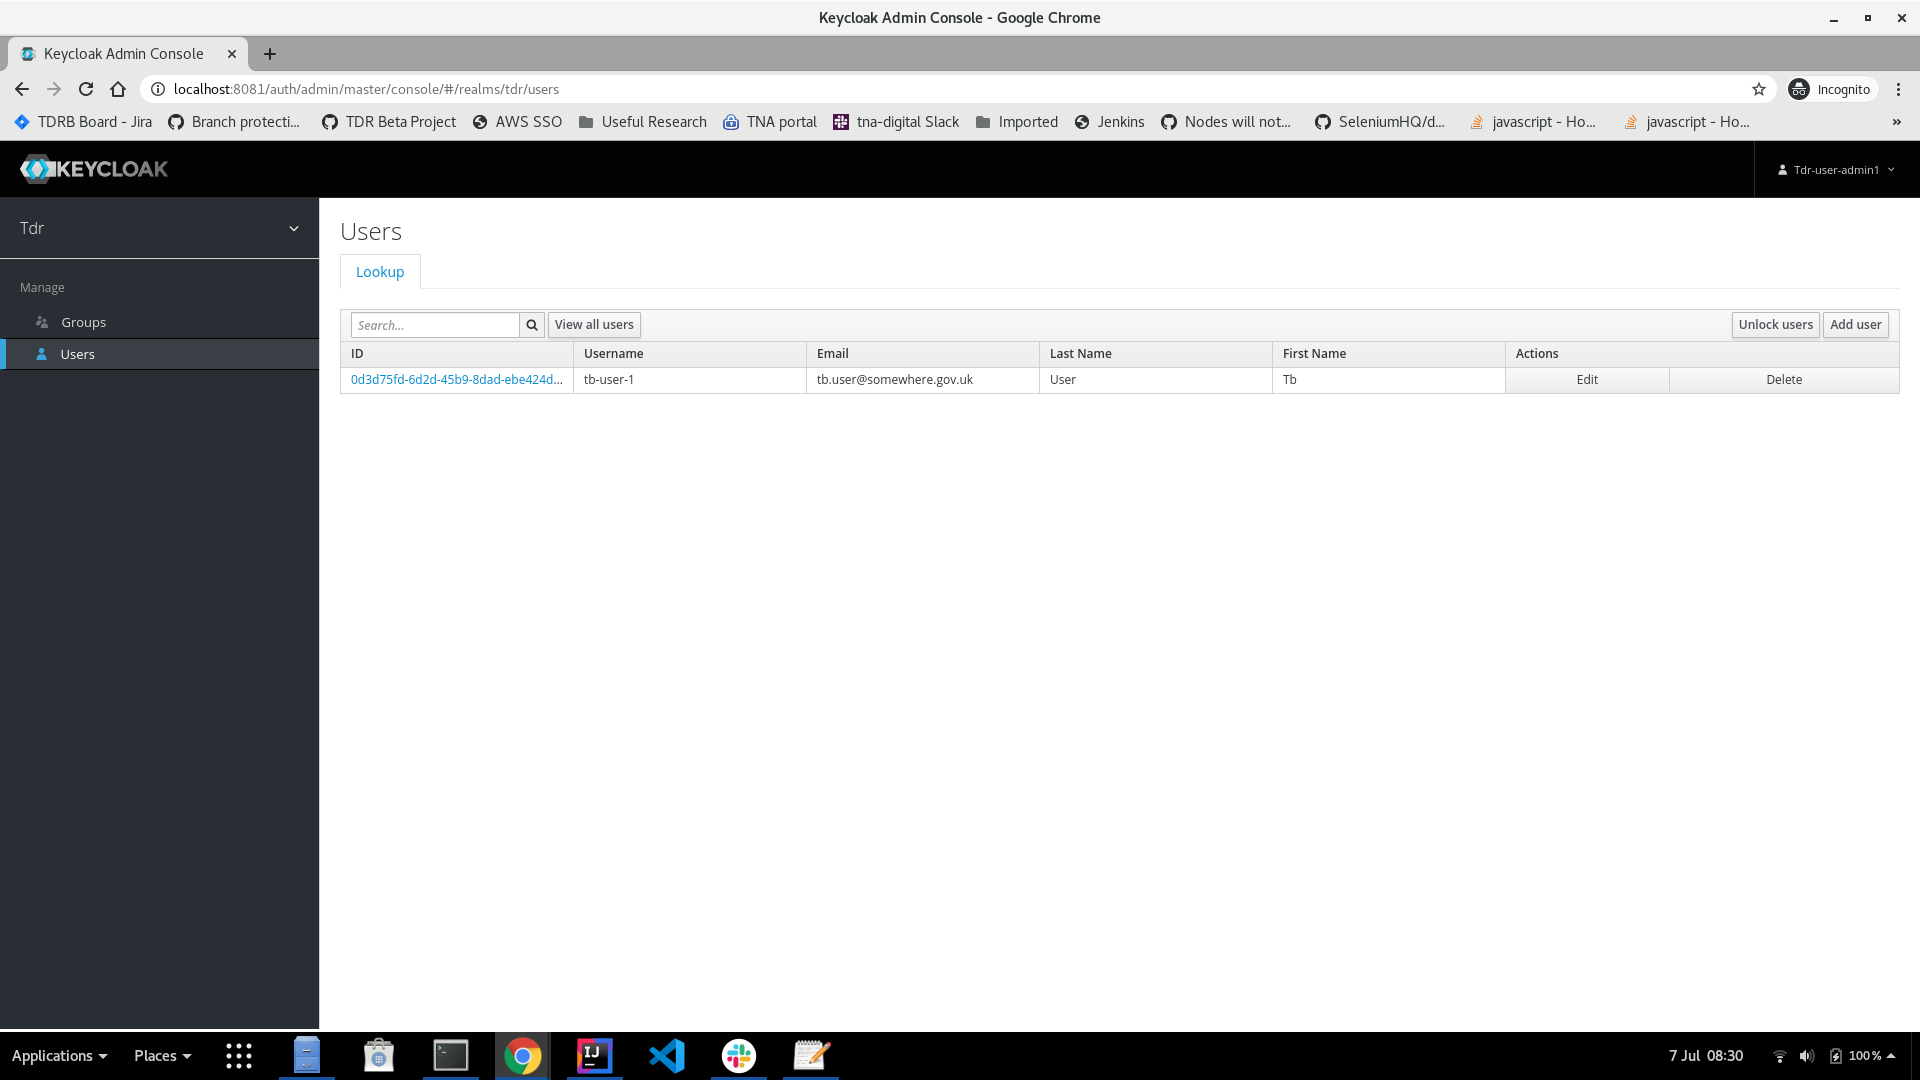
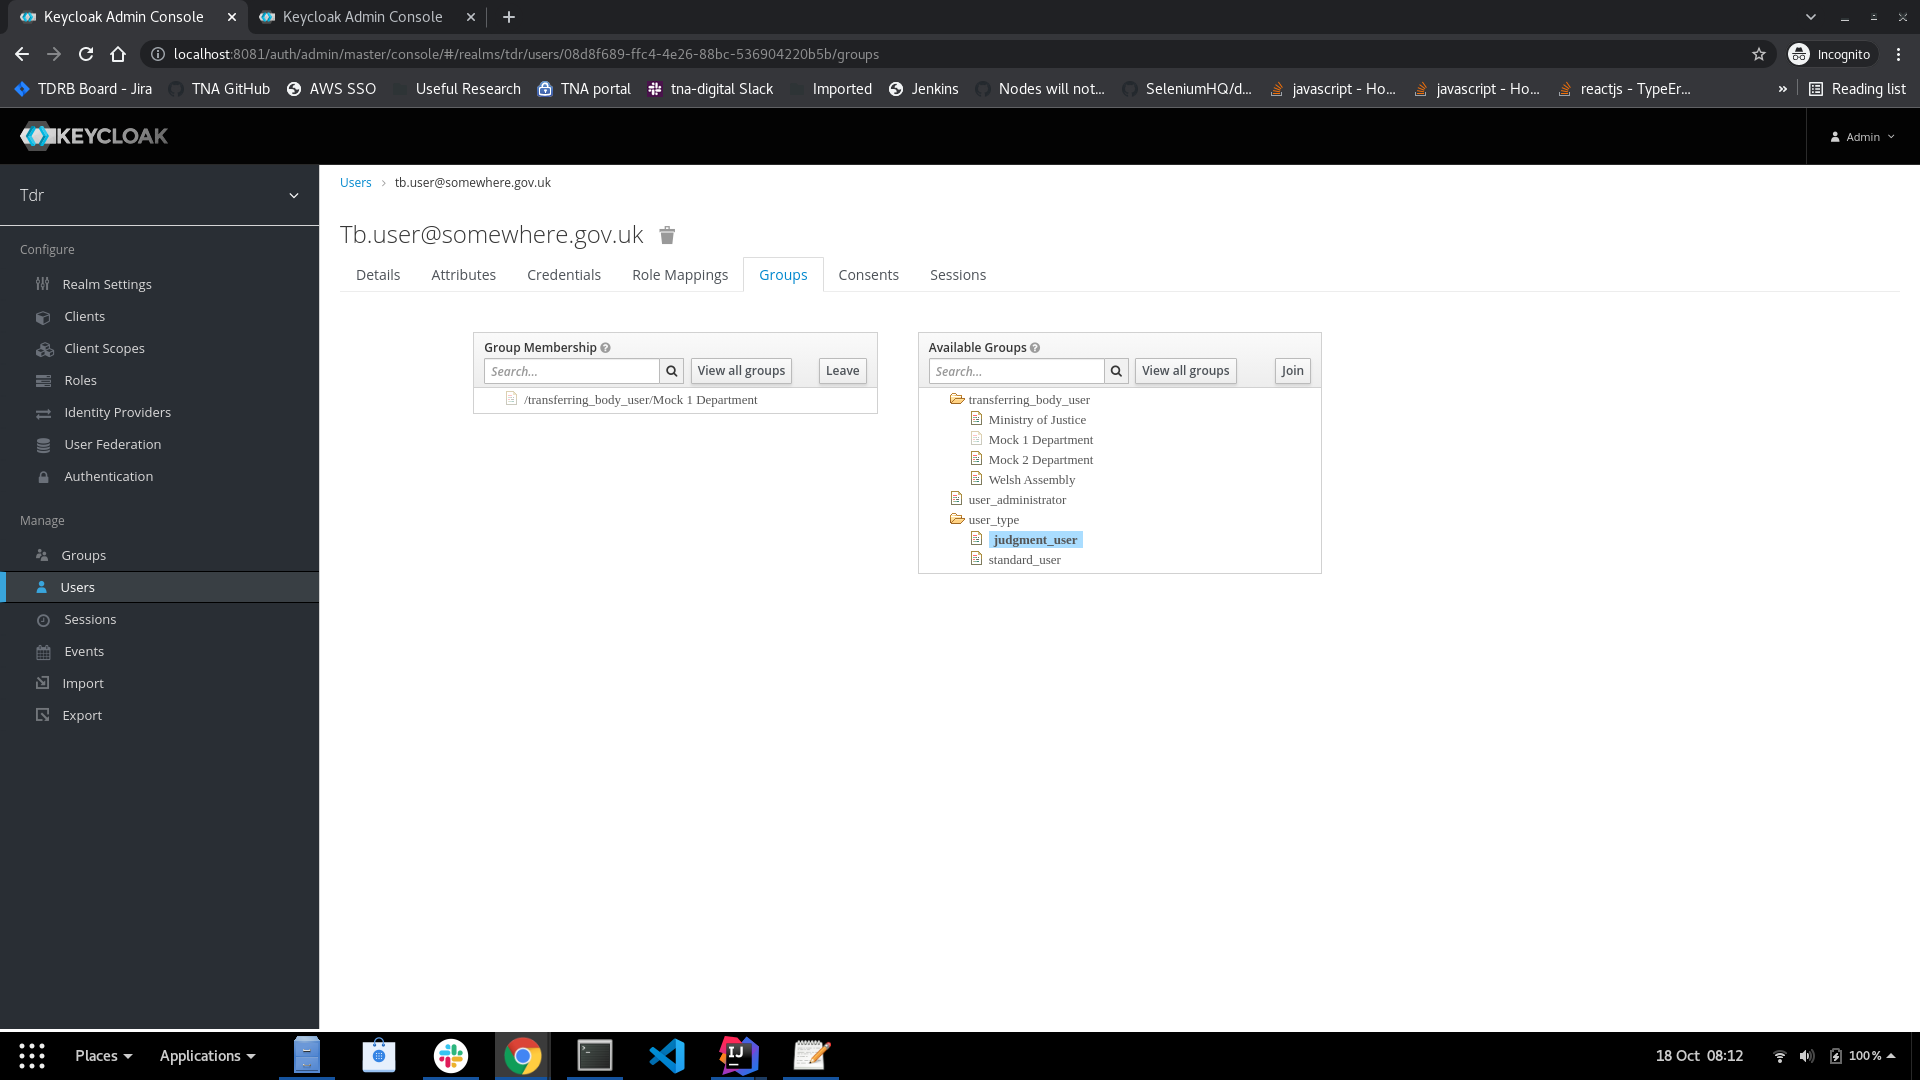
Instructions for adding 'user type' group
New 'user type' Keycloak group is being added to support the UI for court judgment transfers

User will need to be added to one of the new 'user type' groups to ensure correct TDR behaviour depending on the type of transfers the user will be performing

diff --git a/tdr-admins/tdr-user-administrator.md b/tdr-admins/tdr-user-administrator.md
@@ -71,9 +71,18 @@ If a new user needs to be added, then:
 9. From the "Available Groups" box select the transferring body the new user belongs to: ![](images/tdr-user-administrator/adding_new_tb_user/users_4.png)
   * If the transferring body does not appear go to the "Adding a new transferring body" section for details of how to add a new transferring body
 10. Add the new user to the relevant transferring body.
+11. From the "Available Groups" box select "user type" for the user:
+  * *Judgment User*: 
+    * **Note**: this group should only be applied to users who will be transferring court judgments
+    * add the new user to the "user_type/judgment_user" group: ![](images/tdr-user-administrator/adding_new_tb_user/users_5.png)
+    * the user should show two groups in "Group Membership", "transferring body" and "user type": ![](images/tdr-user-administrator/adding_new_tb_user/users_6.png)   
+  * *Standard User*:
+    * **Note**: this group should be applied to all users, other than those who will be transferring court judgments
+    * add the new user to the "user_type/standard_user": ![](images/tdr-user-administrator/adding_new_tb_user/users_7.png)
+    * the user should show two groups in "Group Membership", "transferring body" and "user type": ![](images/tdr-user-administrator/adding_new_tb_user/users_8.png)
 11. Go back to the Users page
 12. Click "View all users"
-13. New user should appear in the list of all users: ![](images/tdr-user-administrator/adding_new_tb_user/users_5.png)
+13. New user should appear in the list of all users: ![](tdr-dev-documentation/tdr-admins/images/tdr-user-administrator/adding_new_tb_user/users_9.png)
 
 ### Resetting existing user's password
 
